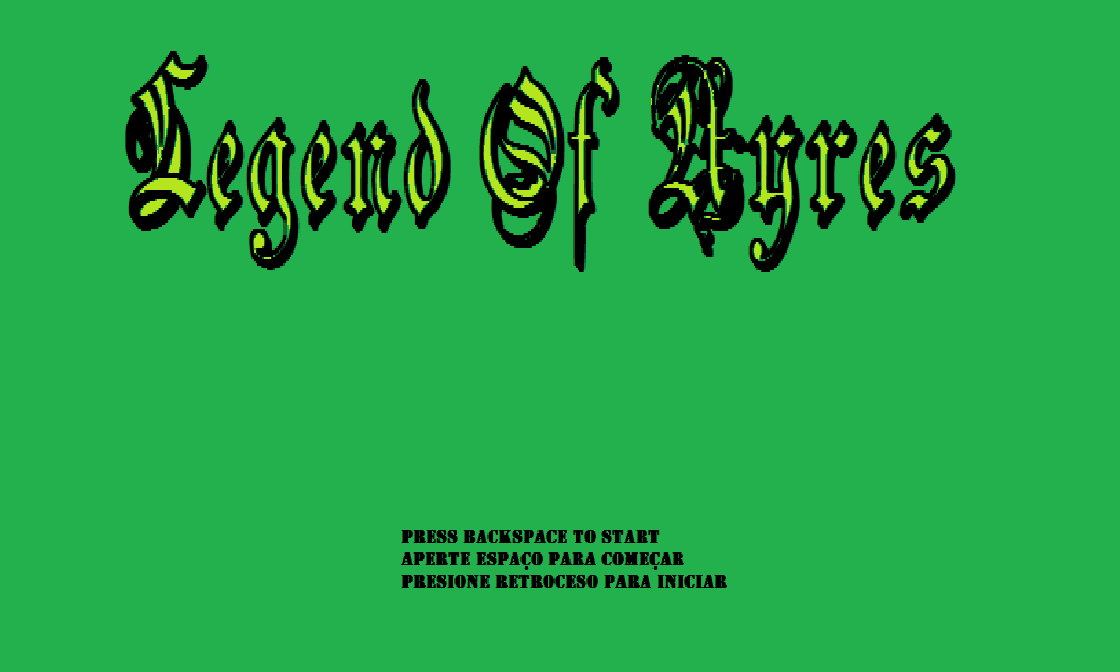
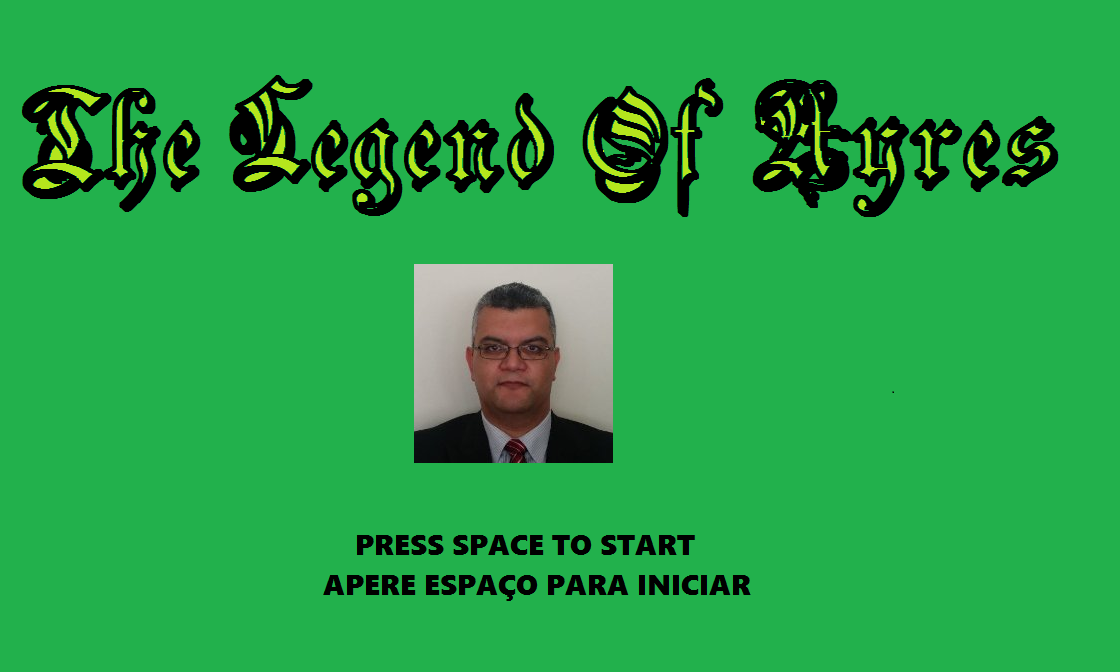
Finalização da Introdução do jogo

Changed region(s): [[0.0, 0.0625, 0.9688, 0.6875], [0.2812, 0.7812, 0.6875, 0.9062]]

diff --git a/Class_jogo.py.py b/Class_jogo.py.py
@@ -102,7 +102,7 @@ class Game:
 			keys = pygame.key.get_pressed()
 			if estado == "inicio":
 				self.intro()
-				if keys[pygame.K_BACKSPACE]:
+				if keys[pygame.K_SPACE]:
 					estado = "jogo"
 					self.tela = Tela(self, self.txt)
 			else:
